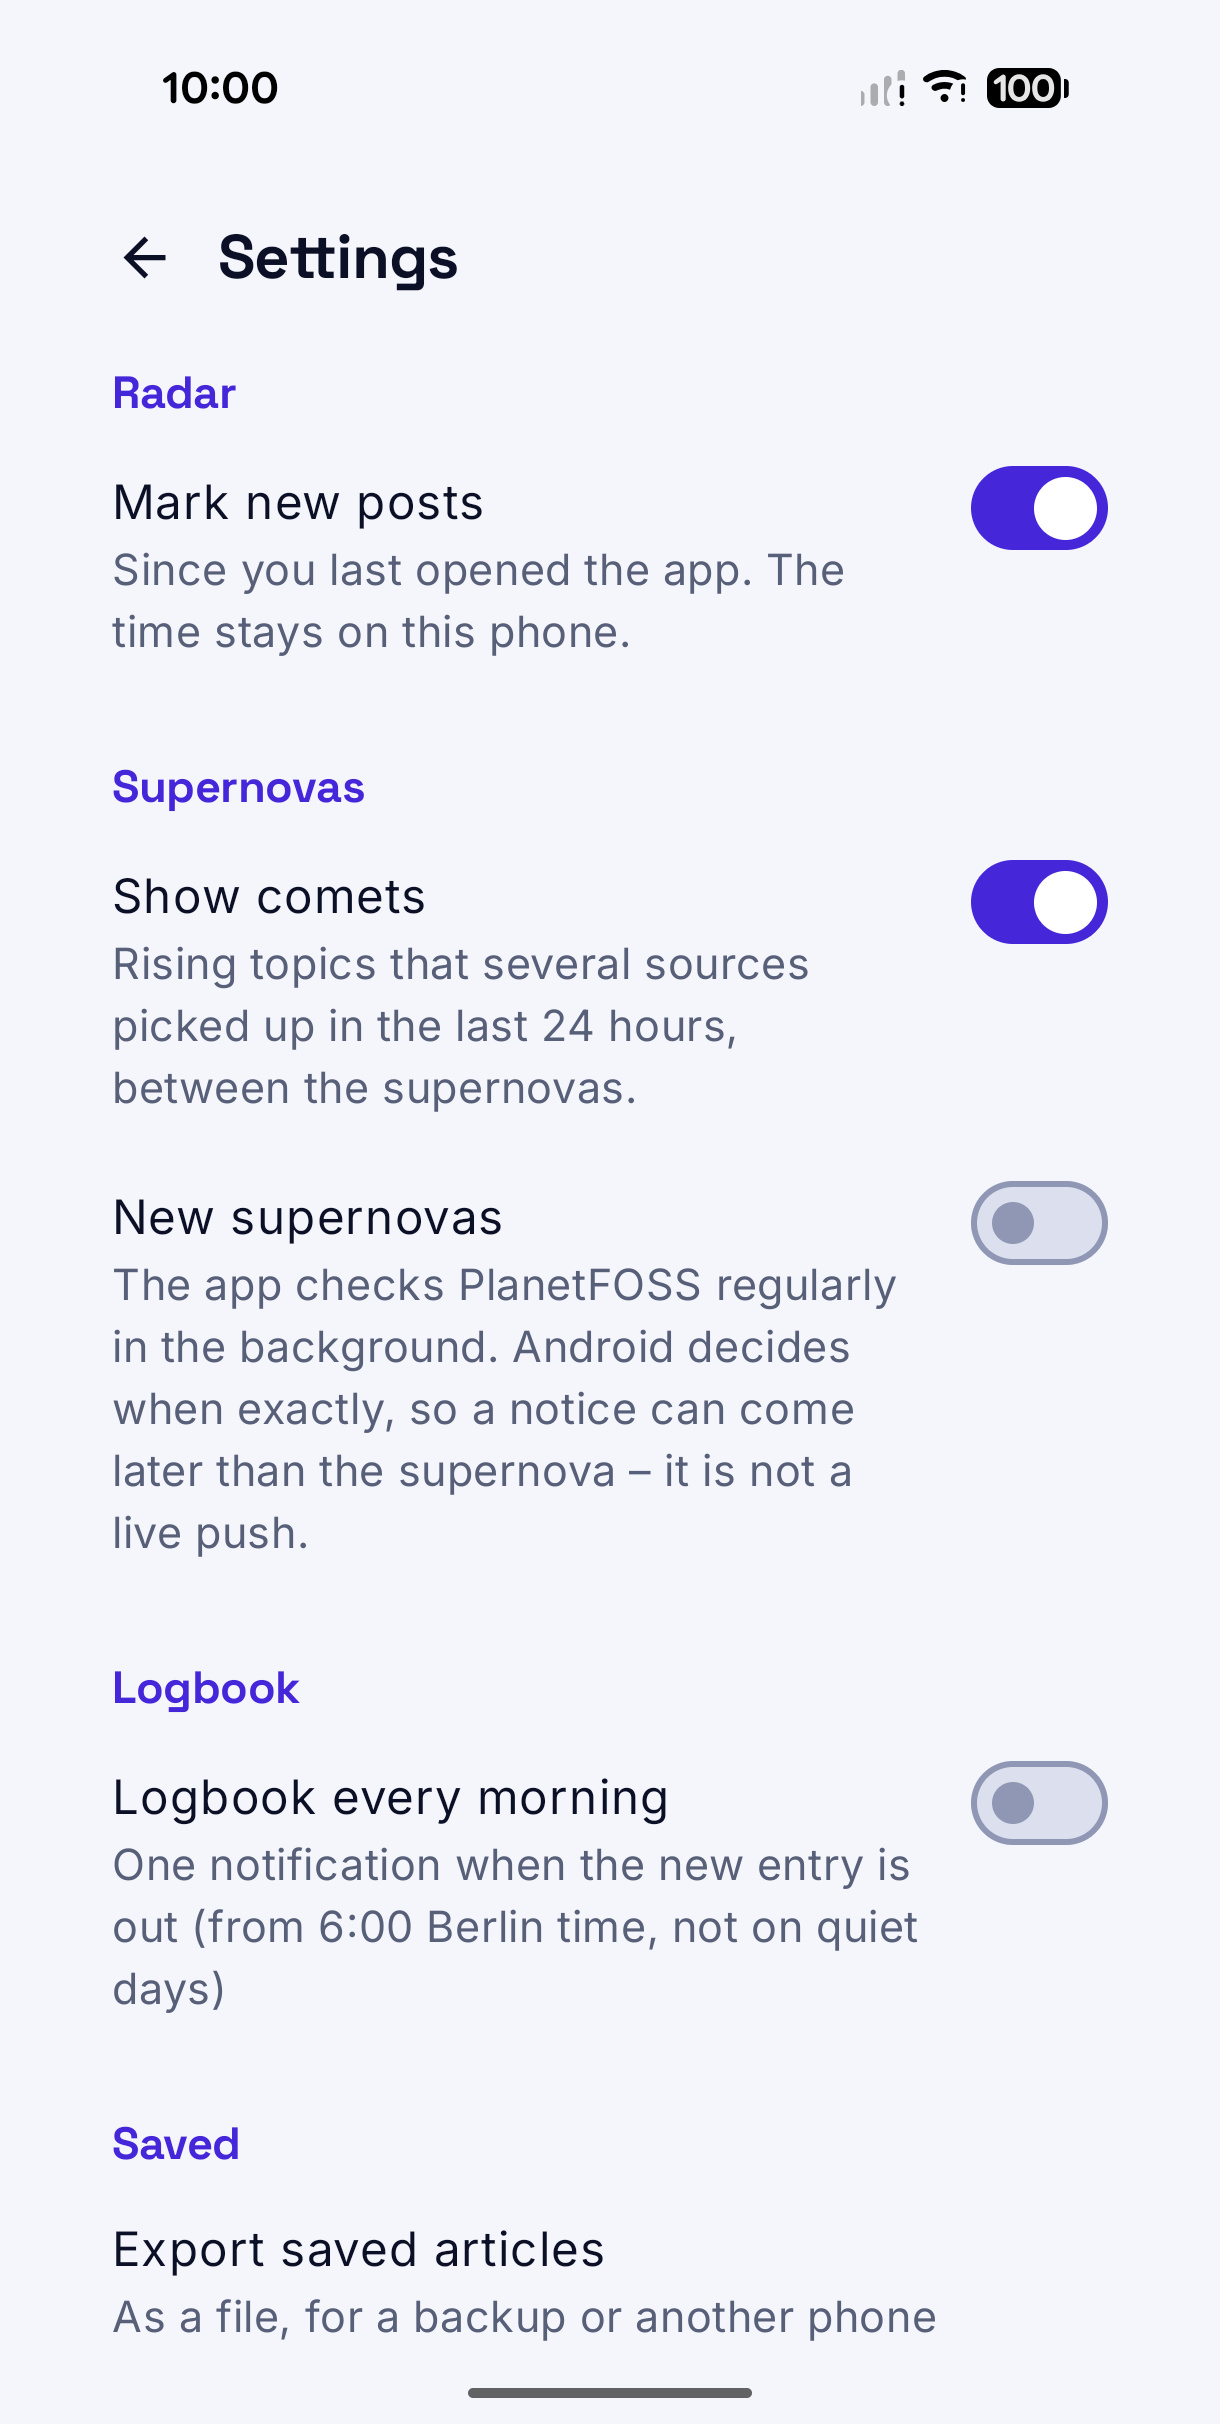
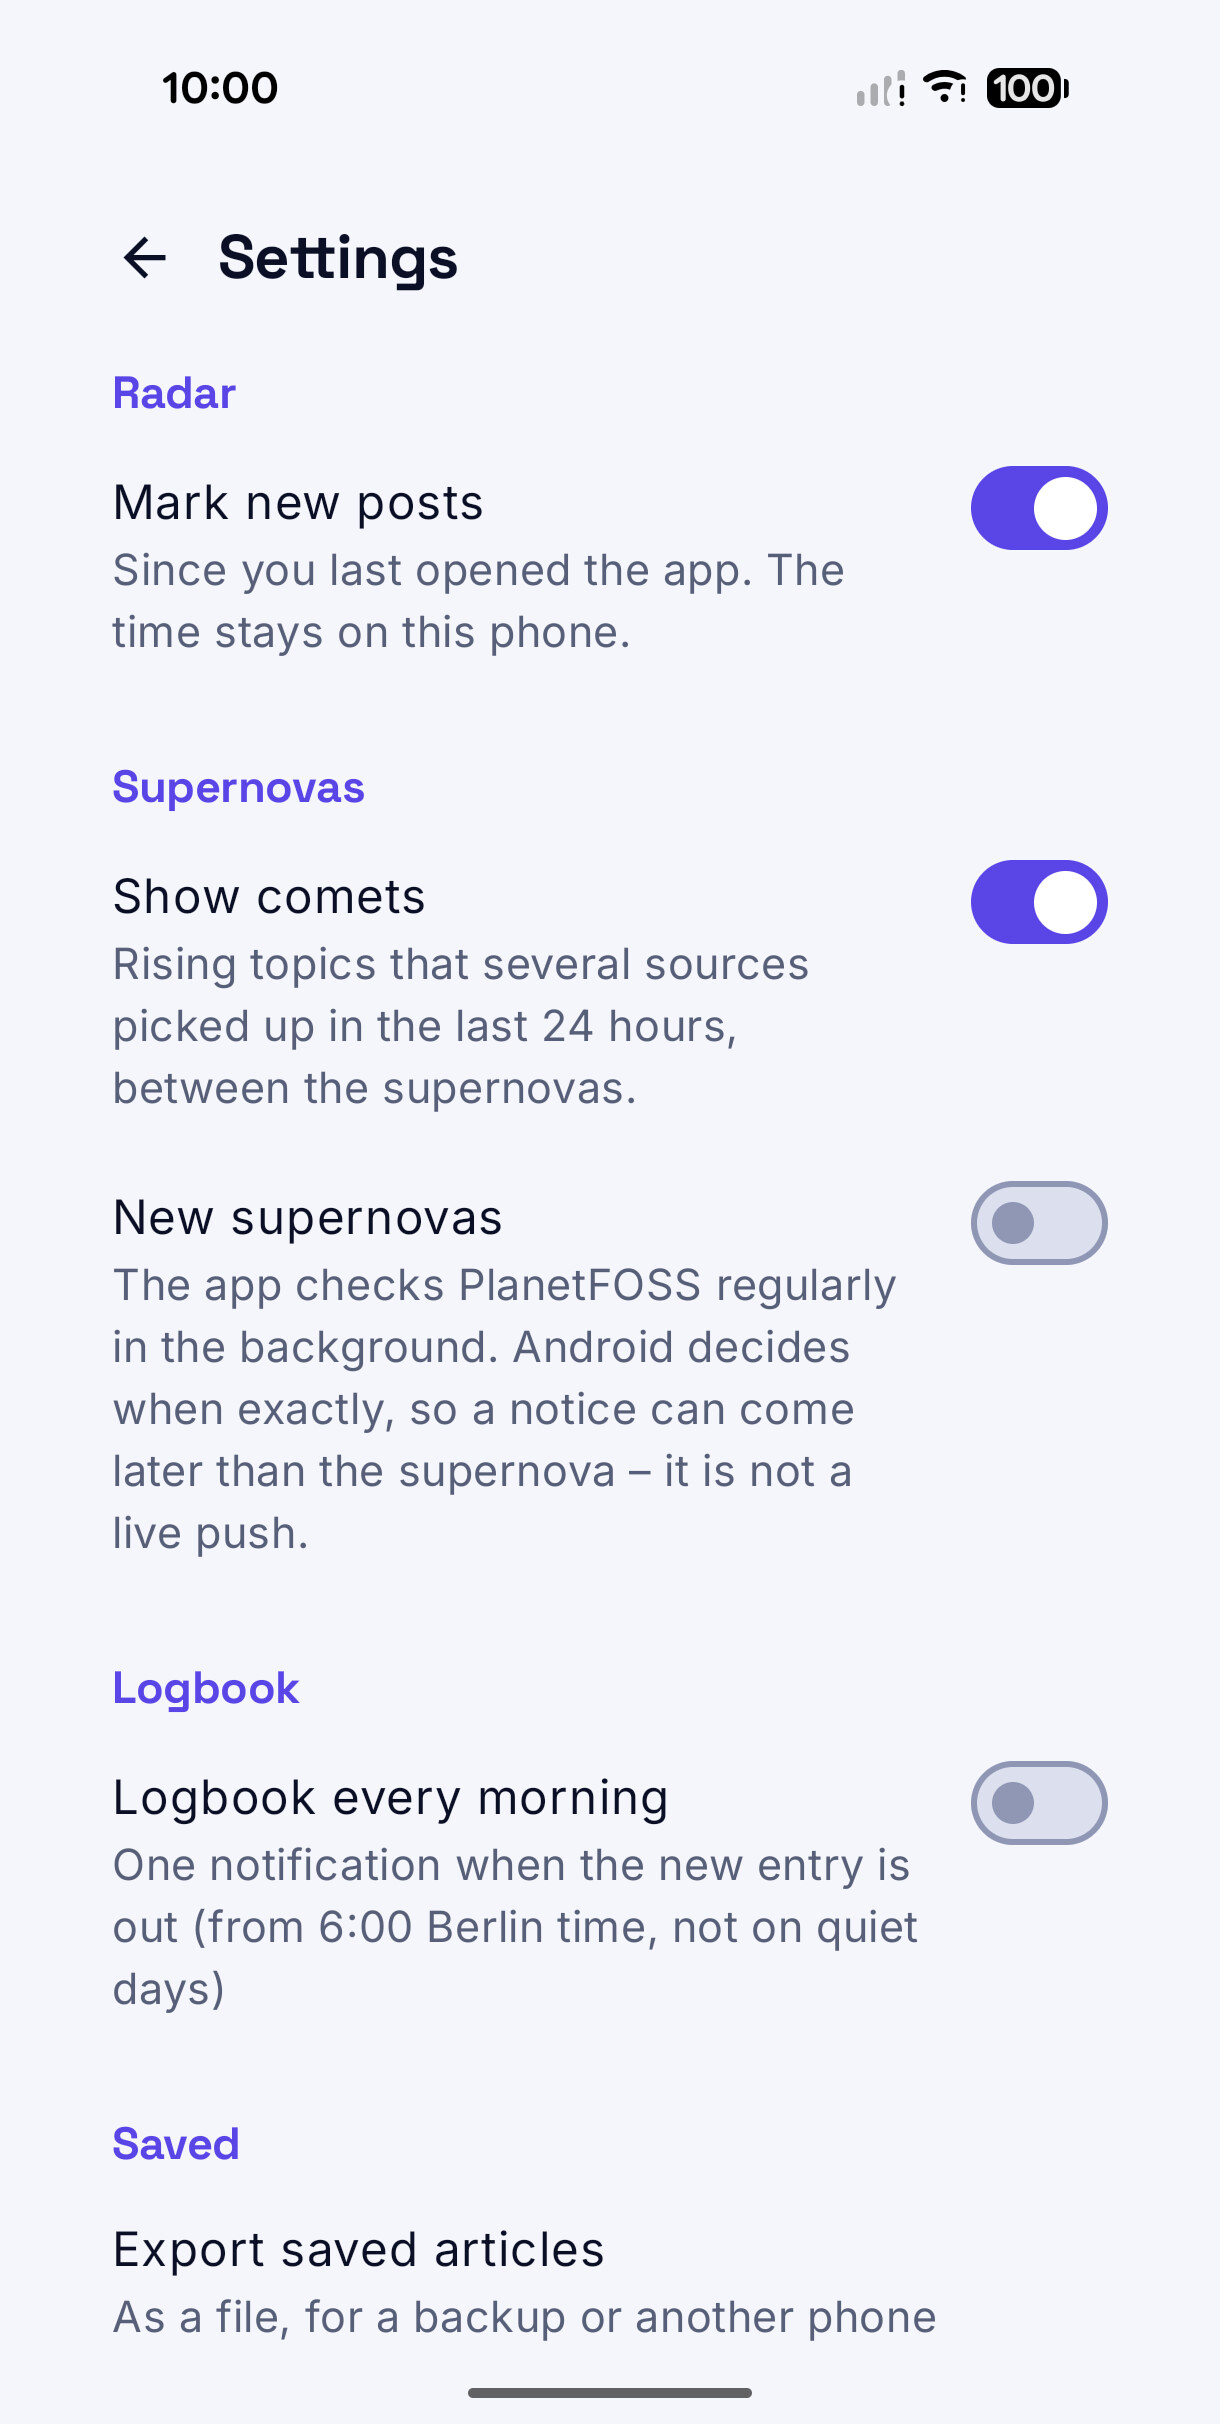
Store screenshots with the new brand; changelog for 0.6.1

diff --git a/CHANGELOG.md b/CHANGELOG.md
@@ -4,6 +4,8 @@ All notable changes to PlanetFOSS for Android. Format: [Keep a Changelog](https:
 versions follow [Semantic Versioning](https://semver.org/).
 
 ## [Unreleased]
+
+## [0.6.1] - 2026-11-16
 ### Fixed
 - `versionCode` is the commit count plus 140, so builds after the history split (count starting at 1 again) install
   as updates over v0.6.0 (versionCode 139) instead of being rejected as a downgrade.
@@ -14,6 +16,10 @@ versions follow [Semantic Versioning](https://semver.org/).
   `android-foreground.svg`). Legacy icon, Play Store icon and feature graphics (DE/EN) follow suit; the monochrome
   (themed) icon stays the star. The ring is a full ellipse that passes behind the planet, as in the brand
   template.
+- The wordmark in the top bar and the setup screen is the new one from the brand refresh (rendered from the website's
+  `wortmarke-dark.svg` / `wortmarke-light.svg`), 30 dp high instead of 26 so the name keeps its size next to the planet.
+- Phone screenshots for Google Play and F-Droid redone with the new icon, wordmark and colours (DE + EN, light and dark,
+  `tools/demo-server.py` on the Pixel 10).
 - App colours follow the refreshed website palette: accent `#5A45E6`, violet `#6E5BEB`, star `#FCC954`, teal in dark mode
   `#5EE4DF`, header navy `#050A24` (theme, spinner, setup, cards, radar, widgets).
 

diff --git a/docs/08-release.md b/docs/08-release.md
@@ -134,6 +134,9 @@ so F-Droid needs the full history (default for its build server).
 - Phone screenshots redone 2026-11-10 with the new tabs (Latest, Radar, Discover, Saved), DE + EN, light and dark, from
   `tools/demo-server.py` on the Pixel 10. Play rejects anything longer than 2:1, so they are 1220 x 2424 (sides extended from
   the edge pixels, status bar notification icons painted over). The ten-inch tablet screenshots are still from 2026-10-30.
+- Phone screenshots redone 2026-11-16 for the brand refresh (same eight views, DE + EN), status bar demo mode, the
+  live-update chip and notification icons painted over, sides extended to 1220 x 2424. The tablet screenshots still show the
+  old colours.
 - Privacy policy URL: https://planetfoss.net/datenschutz/ (has an Android app section; German only).
 - Done 2026-11-10: report and block for fediverse replies (UGC policy), decision D1 built, website deploy of `weekly`,
   `meta`, `logbook`, v0.6.0 tagged and the AAB rebuilt (versionCode 139).
